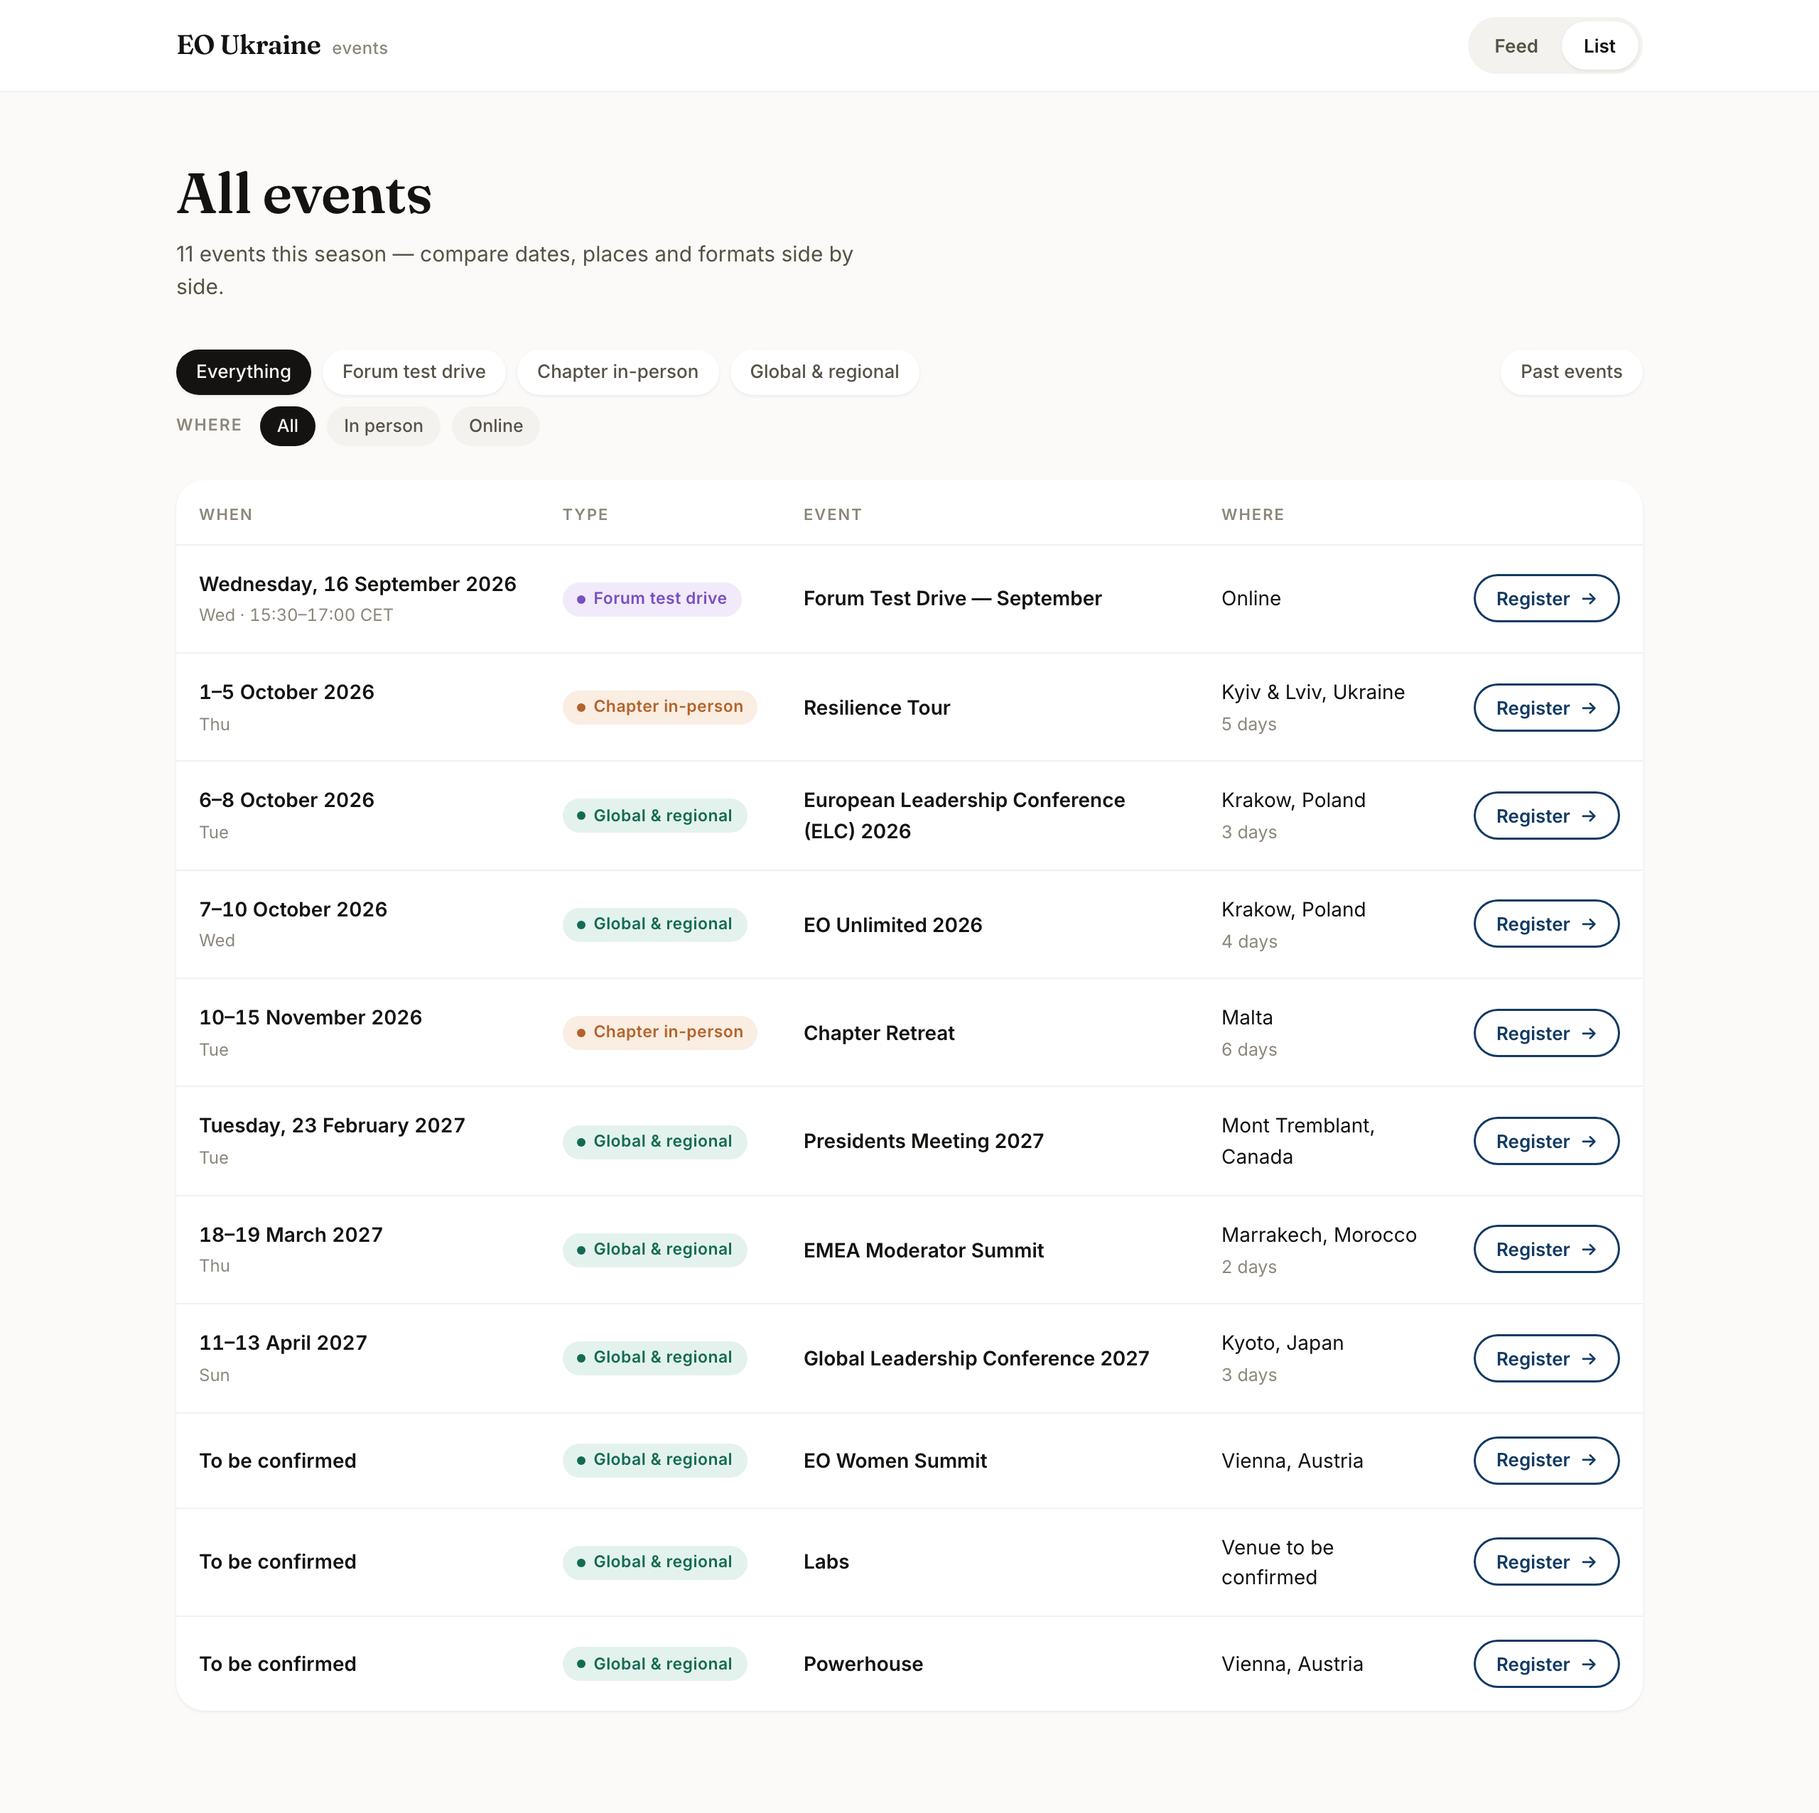
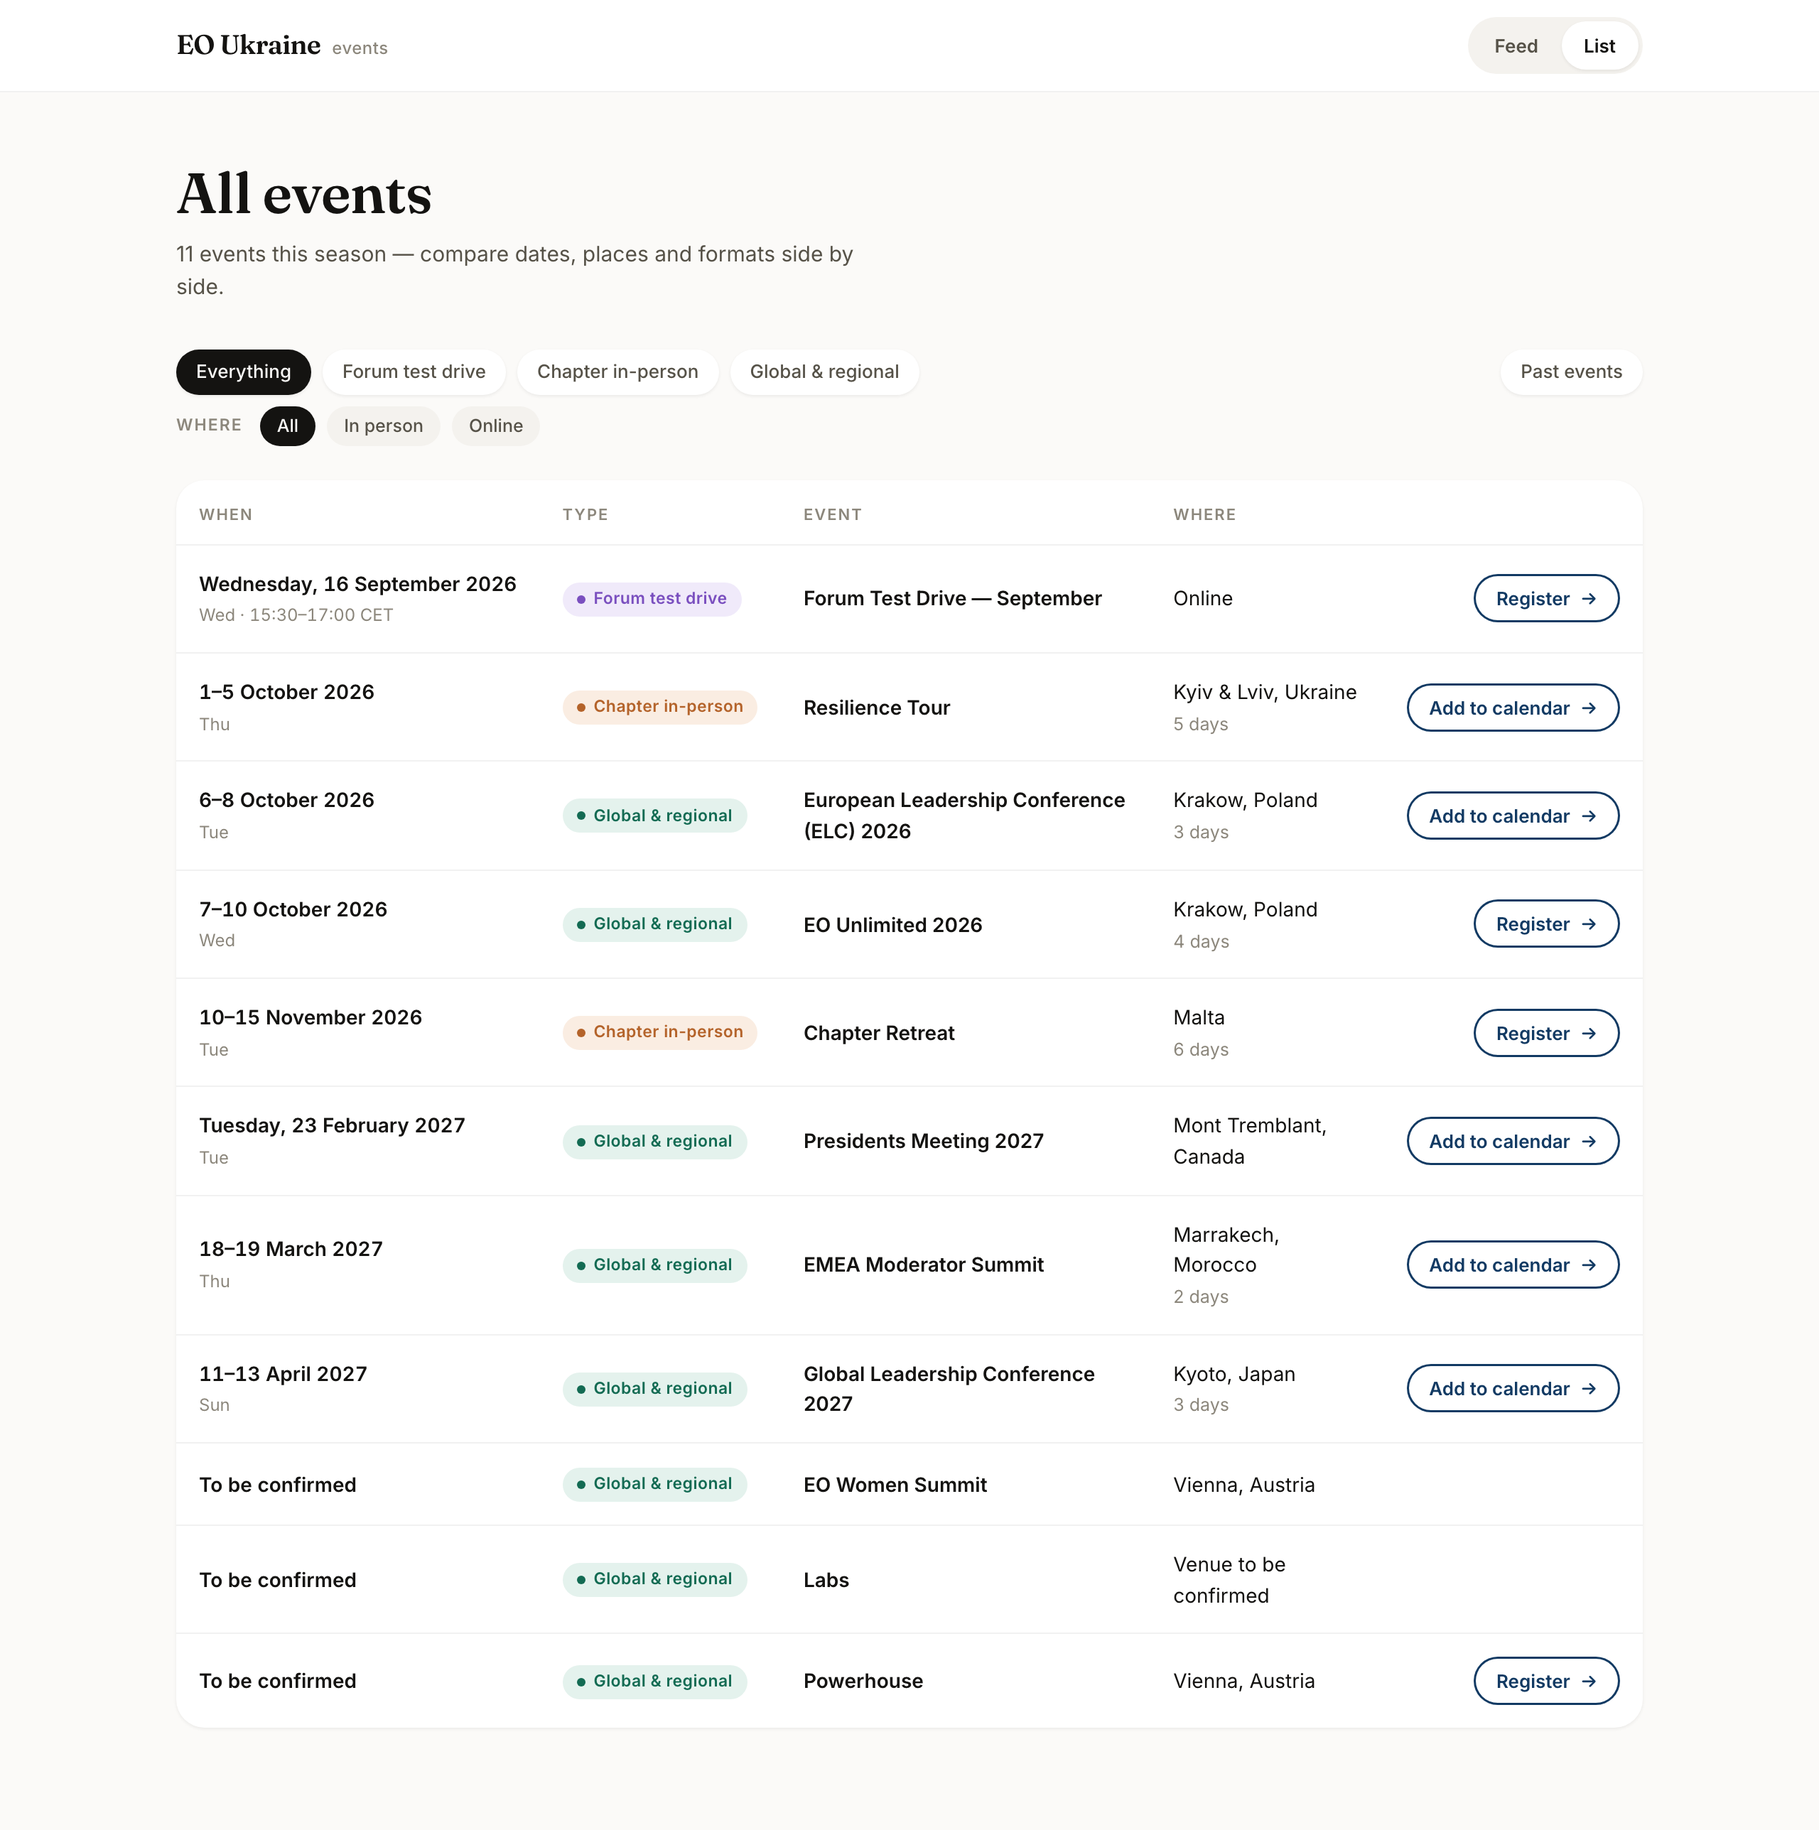
Invitations reach the event again, label the journey ends, and stop acting on events that are over
Four fixes, one of which I caused two commits ago.

/api/attend looked up the calendar event id by searching the response of
getCalendar(). That response goes through publicEvent(), which strips exactly
that field - so the lookup was impossible by design and every invitation failed
with "this event does not have a calendar invitation yet". It now reads the sheet
directly through resolveCalendarEventId(), server side, where the id still exists.

The journey strip put a big DATE on one end and a big TIME on the other with
nothing to tell them apart, so "16" for the sixteenth read as four in the
afternoon. Each end is now labelled - Date / Time for a single day, Starts / Ends
for a span.

A row with no Registration URL rendered a Register button with an empty href.
Pressing a button and having nothing happen reads as a broken site rather than as
registration not being open, so the calendar takes its place: the invitation form
where the event is invitable, "Add to Google Calendar" otherwise. One helper,
action(), so cards, table rows, the event page and the sticky mobile bar cannot
disagree - the mobile bar was the last dead link.

And nothing offers to register for, or add to a calendar, an event that has
already happened. Offering either says the site does not know what day it is.
Checked in one place, so every surface drops it together; the event page says
plainly that it has taken place.

diff --git a/public/src/pages/EventPage.js b/public/src/pages/EventPage.js
@@ -12,12 +12,12 @@
  * question; a member who only wants the date never has to read the paragraphs.
  */
 import { useEventsApi } from '../api/useEventsApi.js';
-import { chip, register, icon } from '../components/ui.js';
+import { chip, register, action, icon } from '../components/ui.js';
 import { richText } from '../richtext.js';
 import { vevent, googleUrl } from '../ics.js';
 import {
   escape as e, dayNum, dow, fullDate, dateRange, timeLabel, placeLabel,
-  placeShort, nights,
+  placeShort, nights, hasPassed,
 } from '../format.js';
 
 export const meta = {
@@ -69,19 +69,25 @@ function journey(ev) {
   const span = multi ? nights(ev.start, ev.end)
     : (ev.time_start && ev.time_end ? duration(ev) : null);
 
+  // Each end is labelled. Without labels a single-day event puts a big DATE on the left and a
+  // big TIME on the right — two different units in the same visual slot — and "16" for the
+  // sixteenth reads as four in the afternoon.
   const left = ev.date_tbc
-    ? { big: '—', small: 'Date to be confirmed', sub: '' }
-    : { big: dayNum(ev.start), small: mon(ev.start), sub: dow(ev.start) };
+    ? { label: 'When', big: '—', small: 'Date to be confirmed', sub: '' }
+    : { label: multi ? 'Starts' : 'Date',
+        big: dayNum(ev.start), small: mon(ev.start), sub: dow(ev.start) };
 
   const right = multi
-    ? { big: dayNum(ev.end), small: mon(ev.end), sub: dow(ev.end) }
+    ? { label: 'Ends', big: dayNum(ev.end), small: mon(ev.end), sub: dow(ev.end) }
     : ev.time_start
-      ? { big: ev.time_start, small: ev.time_end ? `to ${ev.time_end}` : 'Starts', sub: ev.timezone }
-      : { big: '·', small: 'Time', sub: 'to be confirmed' };
+      ? { label: 'Time', big: ev.time_start,
+          small: ev.time_end ? `to ${ev.time_end}` : 'Starts', sub: ev.timezone }
+      : { label: 'Time', big: '·', small: 'to be', sub: 'confirmed' };
 
   return `
   <div class="jrn">
     <div class="jrn-end">
+      <u>${e(left.label)}</u>
       <b>${e(left.big)}</b><span>${e(left.small)}</span><i>${e(left.sub)}</i>
     </div>
     <div class="jrn-line">
@@ -93,6 +99,7 @@ function journey(ev) {
       <span class="jrn-dot end"></span>
     </div>
     <div class="jrn-end right">
+      <u>${e(right.label)}</u>
       <b>${e(right.big)}</b><span>${e(right.small)}</span><i>${e(right.sub)}</i>
     </div>
   </div>`;
@@ -129,7 +136,7 @@ const row = (ic, label, value, sub = '') => (value ? `
  * when the page is running on the demo calendar.
  */
 const addToCalendar = (ev) => {
-  if (!ev.start) return '';
+  if (!ev.start || hasPassed(ev)) return '';
 
   // The organiser has a real event and the site can put the member ON it. One field, because
   // the address is the only thing we do not already know, and it is not stored anywhere here.
@@ -232,10 +239,48 @@ const initials = (name) => name.split(/\s+/).slice(0, 2).map((w) => w[0] || '').
 
 /* --- page --------------------------------------------------------------- */
 
+/**
+ * When there is nowhere to register, the calendar IS the action.
+ *
+ * Rendering a Register button with no destination is worse than rendering none: a member
+ * presses it, nothing happens, and they conclude the site is broken rather than that the
+ * chapter has not opened registration yet.
+ */
+function primaryAction(ev) {
+  if (hasPassed(ev)) {
+    return `<p class="micro past">This event has already taken place.</p>`;
+  }
+  if (ev.registration_url) {
+    return `${register(ev.registration_url, {
+      label: ev.date_tbc ? 'Register interest' : 'Register for this event' })}
+      <p class="micro">${ev.date_tbc
+        ? 'We will email you as soon as the date is set.'
+        : 'Opens the EO registration page. Takes about a minute.'}</p>`;
+  }
+  if (!ev.start) {
+    return `<p class="micro">Registration opens when the date is set.</p>`;
+  }
+  if (ev.invitable) {
+    return `
+      <form class="attend wide" data-attend="${e(ev.id)}">
+        <input type="email" name="email" required autocomplete="email"
+               placeholder="your@email.com" aria-label="Your email address" />
+        <button type="submit" class="register">Send me the invitation
+          <span class="arr" aria-hidden="true">→</span></button>
+      </form>
+      <p class="micro" data-attend-note>The organiser's own event, so the room and any later
+        change reach you automatically. Your address is not stored by this site.</p>`;
+  }
+  return `
+    <a class="register" href="${e(googleUrl(ev, { origin: location.origin }))}"
+       target="_blank" rel="noopener">Add to Google Calendar
+       <span class="arr" aria-hidden="true">→</span></a>
+    <p class="micro">Or <a href="#" data-ics="${e(ev.id)}">download the .ics file</a> for Apple
+      Calendar, Outlook and everything else.</p>`;
+}
+
 export function render({ ev, partial }) {
-  const cta = register(ev.registration_url, {
-    label: ev.date_tbc ? 'Register interest' : 'Register for this event',
-  });
+  const cta = primaryAction(ev);
 
   // The sheet's Description cell may hold HTML. richText() renders it from an allowlist —
   // never bind the raw value here.
@@ -260,13 +305,8 @@ export function render({ ev, partial }) {
     <div class="ev-col">
       <section class="pcard lift">
         ${journey(ev)}
-        <div class="jrn-act">
-          ${cta}
-          <p class="micro">${ev.date_tbc
-            ? 'We will email you as soon as the date is set.'
-            : 'Opens the EO registration page. Takes about a minute.'}</p>
-        </div>
-        ${addToCalendar(ev)}
+        <div class="jrn-act">${cta}</div>
+        ${ev.registration_url ? addToCalendar(ev) : ''}
       </section>
 
       ${paras ? card('About this event', `<div class="rich">${paras}</div>`)
@@ -311,12 +351,12 @@ export function render({ ev, partial }) {
       <a class="backlink" href="#/">← All events</a>
     </div>
 
-    <div class="ev-bar">
+    ${hasPassed(ev) ? '' : `<div class="ev-bar">
       <div>
         <b>${e(ev.date_tbc ? 'Date to be confirmed' : fullDate(ev.start))}</b>
         <span>${e(placeLabel(ev))}</span>
       </div>
-      ${register(ev.registration_url, { label: ev.date_tbc ? 'Register interest' : 'Register', small: true })}
-    </div>
+      ${action(ev, { label: ev.date_tbc ? 'Register interest' : 'Register', small: true })}
+    </div>`}
   </div>`;
 }

diff --git a/public/src/components/ui.js b/public/src/components/ui.js
@@ -1,4 +1,5 @@
-import { escape as e } from '../format.js';
+import { escape as e, hasPassed } from '../format.js';
+import { googleUrl } from '../ics.js';
 
 /** Small inline icons. Inline so the page has no asset dependency at all. */
 const P = {
@@ -18,6 +19,23 @@ export const chip = (label, kind = 'plain') =>
  * The single action, identical on every surface. A member who has already decided should
  * never have to open another page to act.
  */
+/**
+ * The action on a card or a row.
+ *
+ * With no registration link there is nothing to register for YET, so the calendar takes its
+ * place rather than rendering a button that goes nowhere — pressing a dead Register button
+ * reads as a broken site, not as registration being closed.
+ */
+export const action = (ev, opts = {}) => {
+  // Nothing to register for and nothing to put in a calendar once it is over. Offering either
+  // is worse than offering nothing: it says the site does not know what day it is.
+  if (hasPassed(ev)) return '';
+  if (ev.registration_url) return register(ev.registration_url, opts);
+  if (!ev.start) return '';
+  return register(googleUrl(ev, { origin: location.origin }),
+    { ...opts, label: 'Add to calendar' });
+};
+
 export const register = (href, { small = false, ghost = false, label = 'Register' } = {}) => `
   <a class="register ${small ? 'sm' : ''} ${ghost ? 'ghost' : ''}" href="${e(href)}"
      target="_blank" rel="noopener" onclick="event.stopPropagation()">

diff --git a/public/src/pages/FeedPage.js b/public/src/pages/FeedPage.js
@@ -13,7 +13,7 @@
 import { useEventsApi } from '../api/useEventsApi.js';
 import * as EventCard from '../components/EventCard.js';
 import * as Timeline from '../components/Timeline.js';
-import { chip, register } from '../components/ui.js';
+import { chip, register, action } from '../components/ui.js';
 import { escape as e, monthYear, placeLabel } from '../format.js';
 
 export const meta = {
@@ -144,7 +144,7 @@ export function render({ events, tbc, q, counts, facets }) {
           <a class="card-hit" href="#/event/${e(ev.id)}" aria-label="${e(ev.title)}"></a>
           <span class="t">${e(ev.title)}</span>
           <span class="factline">${e([ev.date_note, placeLabel(ev)].filter(Boolean).join(' · '))}</span>
-          ${register(ev.registration_url, { small: true, ghost: true, label: 'Register interest' })}
+          ${ev.registration_url ? register(ev.registration_url, { small: true, ghost: true, label: 'Register interest' }) : ''}
         </div>`).join('')}
     </div>` : ''}
 

diff --git a/functions/api/attend.js b/functions/api/attend.js
@@ -5,15 +5,15 @@
  * from the request: taking an arbitrary event id from a form would let anyone add guests to
  * any event on the calendar.
  */
-import { getCalendar, findCalendarEventId } from '../../lib/calendar.mjs';
+import { resolveCalendarEventId } from '../../lib/calendar.mjs';
 import { addAttendee } from '../../lib/attend.mjs';
 
 export async function onRequestPost(context) {
   let input = {};
   try { input = await context.request.json(); } catch { /* handled below */ }
 
-  const { body: list } = await getCalendar(context.env, { scope: 'all' });
-  const match = list.ok ? findCalendarEventId(list.events, String(input.event ?? '')) : null;
+  const match = await resolveCalendarEventId(context.env, String(input.event ?? ''))
+    .catch(() => null);
 
   const { status, body, logLine } = await addAttendee(context.env, {
     calendarEventId: match?.calendarEventId,

diff --git a/public/assets/css/components.css b/public/assets/css/components.css
@@ -383,3 +383,14 @@
 .attend button:disabled{opacity:.6;cursor:default}
 .addcal-note.good{color:var(--t-global)}
 .addcal-note.bad{color:var(--t-social)}
+
+/* Labels on the journey ends. Without them a big "16" for the sixteenth reads as a time,
+   because the other end of the strip genuinely is one. */
+.jrn-end u{display:block;text-decoration:none;font-size:10px;font-weight:600;
+  letter-spacing:.11em;text-transform:uppercase;color:var(--ink-3);margin-bottom:4px}
+/* The invitation form standing in for the Register button. */
+.attend.wide{display:grid;grid-template-columns:1fr auto;gap:var(--sp-2)}
+.attend.wide input{height:48px;font-size:14.5px;min-width:0}
+.attend.wide .register{height:48px;font-size:15px}
+@media (max-width:560px){.attend.wide{grid-template-columns:1fr}}
+.micro.past{font-style:italic}

diff --git a/public/src/pages/ListPage.js b/public/src/pages/ListPage.js
@@ -11,7 +11,7 @@
  * cannot reach.
  */
 import { useEventsApi } from '../api/useEventsApi.js';
-import { chip, register } from '../components/ui.js';
+import { chip, action } from '../components/ui.js';
 import { escape as e, dateRange, dayNum, dow, timeLabel, placeLabel, nights } from '../format.js';
 import { filterBar } from './FeedPage.js';
 
@@ -42,7 +42,7 @@ const row = (ev) => `
     </td>
     <td>${e(placeLabel(ev))}${nights(ev.start, ev.end)
       ? `<div class="sub">${e(nights(ev.start, ev.end))}</div>` : ''}</td>
-    <td class="right">${register(ev.registration_url, { small: true, ghost: true })}</td>
+    <td class="right">${action(ev, { small: true, ghost: true })}</td>
   </tr>`;
 
 export function render({ events, tbc, q, counts, facets }) {

diff --git a/public/src/components/EventCard.js b/public/src/components/EventCard.js
@@ -20,7 +20,7 @@
  * Register sits above it on its own layer, because it goes somewhere else.
  */
 import { escape as e, whenShort, placeShort, timeLabel, nights } from '../format.js';
-import { chip, register, fact } from './ui.js';
+import { chip, action, fact } from './ui.js';
 import { plainText } from '../richtext.js';
 
 export const render = (ev) => `
@@ -50,7 +50,7 @@ export const render = (ev) => `
                ${fact('cal', nights(ev.start, ev.end))}
                ${ev.guests_welcome ? fact('users', 'Guests welcome') : ''}
              </span>`}
-        ${register(ev.registration_url, { small: true })}
+        ${action(ev, { small: true })}
       </div>
     </div>
   </div>`;

diff --git a/public/src/format.js b/public/src/format.js
@@ -43,6 +43,17 @@ export const placeLabel = (e) => (e.is_online ? 'Online' : e.place || 'Venue to 
 
 export const isPast = (e, today) => !!e.end && e.end < today;
 
+/**
+ * Has this already happened? Uses the reader's own date, which is what they are comparing
+ * against when they look at the page.
+ *
+ * An event with no date has not happened — "dates to be confirmed" is a future state.
+ */
+export const hasPassed = (ev) => {
+  if (!ev.start) return false;
+  return (ev.end || ev.start) < new Date().toISOString().slice(0, 10);
+};
+
 export const escape = (s) => String(s ?? '').replace(/[&<>"']/g, (c) =>
   ({ '&': '&amp;', '<': '&lt;', '>': '&gt;', '"': '&quot;', "'": '&#39;' }[c]));
 
